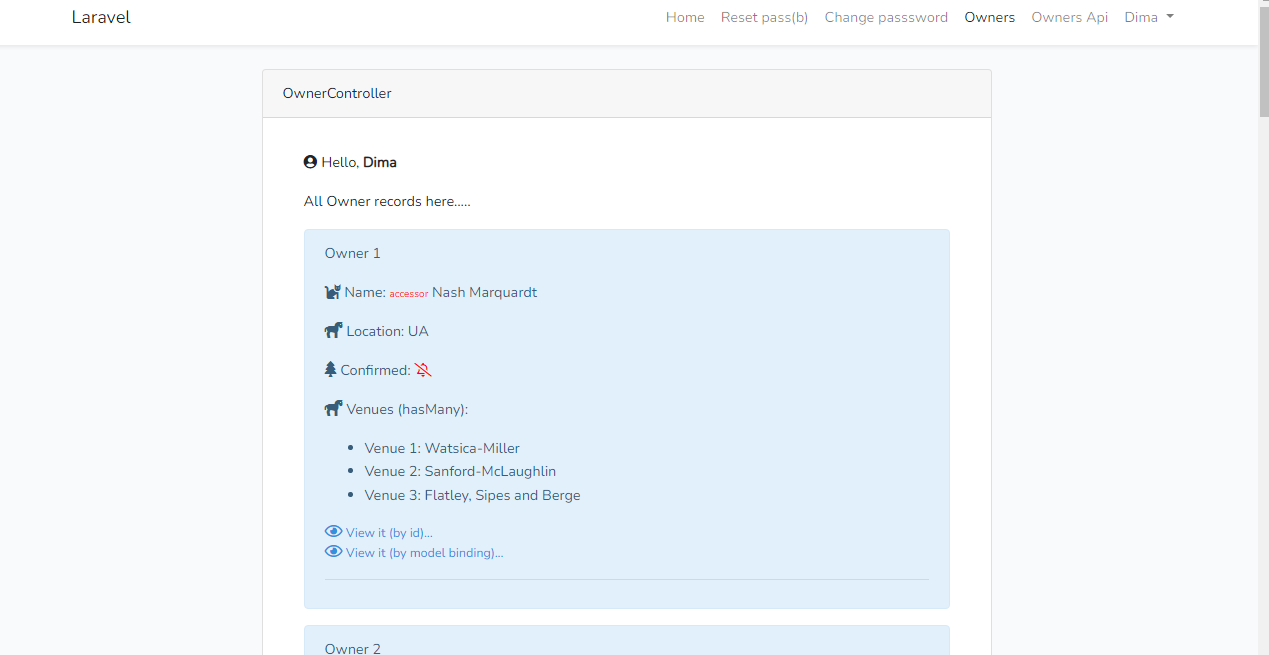
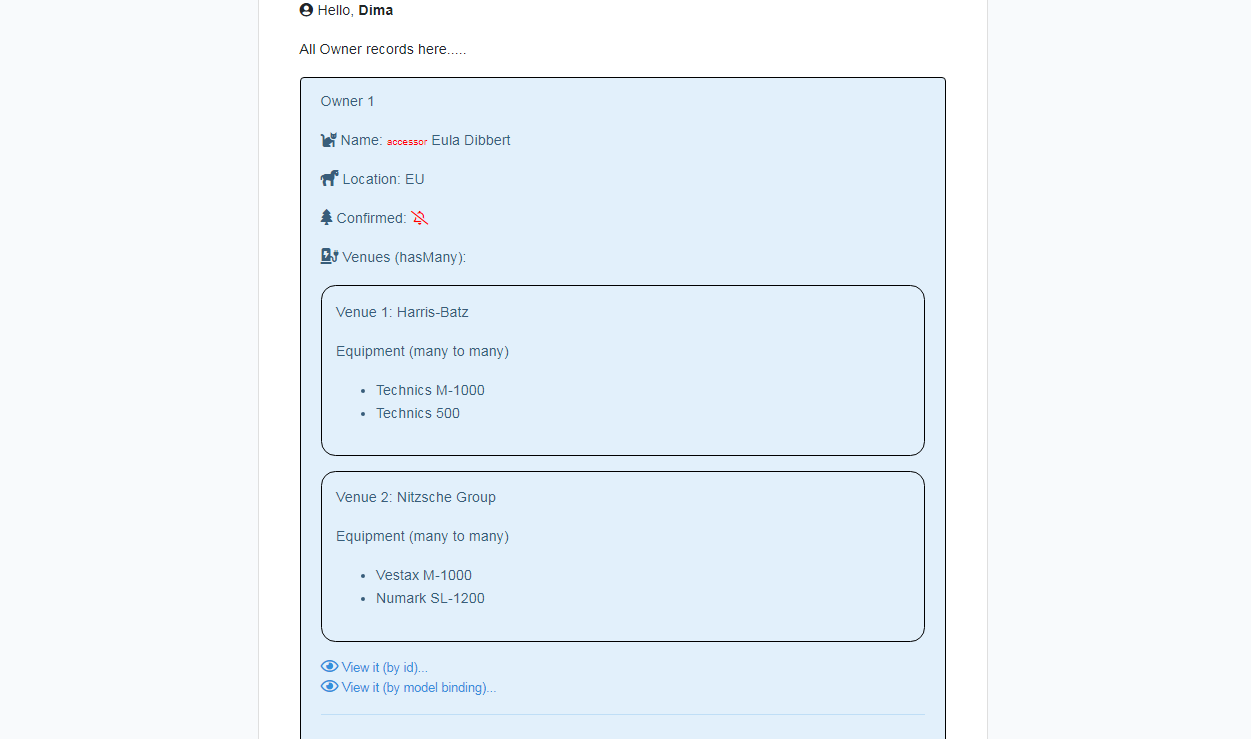
Table 'equipment', migrate, factory, seed, many to many relation

diff --git a/resources/views/owner/viewOne.blade.php b/resources/views/owner/viewOne.blade.php
@@ -21,23 +21,38 @@
 						
 						<p>One equipment records here.....</p>
 						 
-			            <p><i class='fas fa-cat'   style='font-size:16px'></i> Name:    {{ $owner->first_name  }}  {{ $owner->last_name  }}</p>
+			            <p><i class='fas fa-cat'   style='font-size:16px'></i> Name:    {!! $owner->first_name  !!}  {{ $owner->last_name  }}</p>
 						<p><i class='fas fa-horse' style='font-size:16px'></i> Location: {{ $owner->location}}  </p>
 						<p><i class='fas fa-tree' style='font-size:16px'></i>  Confirmed: {!! ($owner->confirmed) ? '<i class="far fa-check-circle" style="color:green"></i>' : '<i class="far fa-bell-slash" style="color:red"></i>' !!}  </p>	 
 						
 						{{-- Venues hasMany  --}}
-                         <p> <i class='fas fa-horse' style='font-size:16px'></i> Venues (hasMany): 
-                         @if( $owner->venues->isEmpty())
-                            <span class="text-danger"> No venue so far. </span>
-                         @else
-                            <ul>
-                            @foreach ($owner->venues as $venue)
-                                <li>Venue {{ $loop->iteration }}: {{ $venue->venue_name }}</li>
-                            @endforeach
-                            </ul>
-                        @endif
-                        </p>
-                        {{-- End Venues hasMany  --}}
+                            <p> <i class='fas fa-charging-station' style='font-size:16px'></i> Venues (hasMany): 
+                            @if( $owner->venues->isEmpty())
+                                <span class="text-danger"> No venue so far. </span>
+                            @else
+                                @foreach ($owner->venues as $venue)
+								    <div class="one" style="border: 1px solid black; padding: 1em; margin-bottom:1em; border-radius: 1em;">
+                                    <p>Venue {{ $loop->iteration }}: {{ $venue->venue_name }}</p>
+									
+									
+									{{-- Equipment Many to Many  --}}
+									@if( $venue->equipments->isEmpty())
+									    <span class="text-danger"> No equipment so far. </span>	
+									@else
+										<p>Equipment (many to many)</p>
+										<ul>
+										@foreach ($venue->equipments as $equipment)
+									        <li> {{ $equipment->trademark_name }} {{ $equipment->model_name }}</li>
+										@endforeach
+										</ul>
+									@endif
+									{{-- End Equipment Many to Many  --}}
+									
+									</div> <!-- end class one-->
+                                @endforeach
+                            @endif
+                            </p>
+                            {{-- End Venues hasMany  --}}
 						
 						<a href="{{route('/owners')}}"> <i class='fas fa-sign-in-alt'></i> Go back</a>
                     </div>

diff --git a/resources/views/owner/index.blade.php b/resources/views/owner/index.blade.php
@@ -24,22 +24,37 @@
 						@if ($owners->count())
                           
                             @foreach ($owners as $owner)
-							<div class="alert alert-info">
+							<div class="alert alert-info" style="border: 1px solid black;">
 			                <p> Owner {{ $loop->iteration }}  </p>  <!-- {{ $loop->iteration }} is Blade equivalentof $i++ -->
                             <p><i class='fas fa-cat'   style='font-size:16px'></i> Name:    {!! $owner->first_name  !!}  {{ $owner->last_name  }}</p>
 							<p><i class='fas fa-horse' style='font-size:16px'></i> Location: {{ $owner->location}}  </p>
 							<p><i class='fas fa-tree' style='font-size:16px'></i>  Confirmed: {!! ($owner->confirmed) ? '<i class="far fa-check-circle" style="color:green"></i>' : '<i class="far fa-bell-slash" style="color:red"></i>' !!}  </p>
 							
                             {{-- Venues hasMany  --}}
-                            <p> <i class='fas fa-horse' style='font-size:16px'></i> Venues (hasMany): 
+                            <p> <i class='fas fa-charging-station' style='font-size:16px'></i> Venues (hasMany): 
                             @if( $owner->venues->isEmpty())
                                 <span class="text-danger"> No venue so far. </span>
                             @else
-                                <ul>
                                 @foreach ($owner->venues as $venue)
-                                    <li>Venue {{ $loop->iteration }}: {{ $venue->venue_name }}</li>
+								    <div class="one" style="border: 1px solid black; padding: 1em; margin-bottom:1em; border-radius: 1em;">
+                                    <p>Venue {{ $loop->iteration }}: {{ $venue->venue_name }}</p>
+									
+									
+									{{-- Equipment Many to Many  --}}
+									@if( $venue->equipments->isEmpty())
+									    <span class="text-danger"> No equipment so far. </span>	
+									@else
+										<p>Equipment (many to many)</p>
+										<ul>
+										@foreach ($venue->equipments as $equipment)
+									        <li> {{ $equipment->trademark_name }} {{ $equipment->model_name }}</li>
+										@endforeach
+										</ul>
+									@endif
+									{{-- End Equipment Many to Many  --}}
+									
+									</div> <!-- end class one-->
                                 @endforeach
-                                </ul>
                             @endif
                             </p>
                             {{-- End Venues hasMany  --}}

diff --git a/database/seeds/Subfolder/OwnerSeeder.php b/database/seeds/Subfolder/OwnerSeeder.php
@@ -5,6 +5,7 @@ namespace Database\Seeds\Subfolder;
 use Illuminate\Database\Seeder;
 use App\Models\Owner;
 use App\Models\Venue;
+use App\Models\Equipment;
 use Illuminate\Support\Facades\DB;
 
 class OwnerSeeder extends Seeder
@@ -20,6 +21,7 @@ class OwnerSeeder extends Seeder
 		DB::statement('SET FOREIGN_KEY_CHECKS=0');       //way to set auto increment back to 1 before seeding a table (instead of ->delete())
         DB::table('owners')->truncate(); //way to set auto increment back to 1 before seeding a table
 		DB::table('venues')->truncate(); //way to set auto increment back to 1 before seeding a table
+		DB::table('equipments')->truncate(); //way to set auto increment back to 1 before seeding a table
 		
         // $this->call(UsersTableSeeder::class);
 		///Owner::factory()->count(5)->create(); //Factory trait has been introduced in Laravel v8.
@@ -38,8 +40,21 @@ class OwnerSeeder extends Seeder
             ) */
             //->has(factory(\App\Models\Venue::class, 1)) //not supported in Laravel 6??
 		    ->create()->each(function ($owner){
-			    //create hasMany relation (Venues) ->has() is not supported in L6
-			    factory(\App\Models\Venue::class, 2)->create(['owner_id' => $owner->id ]);	
+				
+			    //create hasMany relation (Venues to Owners) ->has() is not supported in L6
+			    factory(\App\Models\Venue::class, 2)->create(['owner_id' => $owner->id ])->each(function ($venue){
+					
+					
+					//$venue->owner()->associate(1); //not working so far
+					
+					//create Many to Many relation (pivot)(Equipments to Venues) 
+                    $equipments = factory(\App\Models\Equipment::class, 2)->create();
+					//$venue->equipments()->saveMany($equipments);
+					$venue->equipments()->sync($equipments->pluck('id')); //Eloquent:relationship
+					
+					
+				});
+				
 			});
     }
 }

diff --git a/database/migrations/2024_09_25_142943_create_equipment_venue_table.php b/database/migrations/2024_09_25_142943_create_equipment_venue_table.php
@@ -1,0 +1,40 @@
+<?php
+//Pivot table (Many to Many relations)
+use Illuminate\Database\Migrations\Migration;
+use Illuminate\Database\Schema\Blueprint;
+use Illuminate\Support\Facades\Schema;
+
+class CreateEquipmentVenueTable extends Migration
+{
+    /**
+     * Run the migrations.
+     *
+     * @return void
+     */
+    public function up()
+    {
+        Schema::create('equipment_venue', function (Blueprint $table) {
+            //$table->bigIncrements('id');
+            
+			$table->unsignedBigInteger('equipment_id')->nullable()->index(); // this is working
+			$table->unsignedBigInteger('venue_id')->nullable(); // this is working
+			
+			$table->primary(['equipment_id', 'venue_id']);
+			
+            $table->foreign('equipment_id')->references('id')->on('equipments')->onDelete('cascade');
+            $table->foreign('venue_id')->references('id')->on('venues')->onDelete('cascade');
+			
+			$table->timestamps();
+        });
+    }
+
+    /**
+     * Reverse the migrations.
+     *
+     * @return void
+     */
+    public function down()
+    {
+        Schema::dropIfExists('equipment_venue');
+    }
+}

diff --git a/app/Models/Equipment.php b/app/Models/Equipment.php
@@ -1,0 +1,40 @@
+<?php
+
+namespace App\Models;
+
+use Illuminate\Database\Eloquent\Model;
+use Illuminate\Database\Eloquent\SoftDeletes;
+use Illuminate\Database\Eloquent\Builder; //for scope
+//use Illuminate\Database\Eloquent\Factories\HasFactory; //Factory traithas been introduced in Laravel v8.
+use Illuminate\Database\Eloquent\Relations\BelongsToMany;
+
+
+class Equipment extends Model
+{
+	//use HasFactory; ////Factory trait has been introduced in Laravel v8.
+	use SoftDeletes;
+	
+	 protected $table ='equipments';
+	 /**
+     * The attributes that are mass assignable.
+     *
+     * @var array<int, string>
+     */
+    protected $fillable = [
+    ];
+	
+	 /**
+     * @var array<string, string>
+     */
+    protected $dispatchesEvents = [
+    ];
+	
+	/**
+     * BelongsToMany: get venues that have equipment
+     */
+    public function venues(): BelongsToMany
+    {
+        return $this->belongsToMany(Venue::class);
+    }
+
+}

diff --git a/database/factories/EquipmentFactory.php b/database/factories/EquipmentFactory.php
@@ -1,0 +1,21 @@
+<?php
+//Factory trait has been introduced in Laravel v8 so can not use it 
+namespace Database\Factories;
+
+/** @var \Illuminate\Database\Eloquent\Factory $factory */
+
+use App\Model;
+use App\Models\Equipment;
+use Faker\Generator as Faker;
+//use Illuminate\Database\Eloquent\Factories\Factory; Factory trait has been introduced in Laravel v8 so can not use it 
+
+$factory->define(\App\Models\Equipment::class, function (Faker $faker) { 
+    return [
+        //
+		'trademark_name' => $faker->randomElement(['Pioneer', 'Vestax', 'Technics', 'Numark']), //$faker->company, //Str::random(10),
+		'model_name'     => $faker->randomElement(['SL-1200', '500', 'G-120', 'M-1000']), //$faker->name,    //$faker->lastName,
+		'description'    => $faker->sentence(3),
+		//'owner_id'   => Owner::inRandomOrder()->first()->id //Owner::factory()  //assign BelongsTo
+
+    ];
+});

diff --git a/app/Http/Api/V1/Resources/Venues/VenueResource.php b/app/Http/Api/V1/Resources/Venues/VenueResource.php
@@ -5,6 +5,7 @@ namespace App\Http\Api\V1\Resources\Venues;
 //use Illuminate\Http\Resources\Json\ResourceCollection;
 use App\Models\Venue;
 use Illuminate\Http\Resources\Json\JsonResource;
+use App\Http\Api\V1\Resources\Equipments\EquipmentResource;
 
 class VenueResource extends JsonResource
 {
@@ -20,9 +21,10 @@ class VenueResource extends JsonResource
 		return [
             'id'            => $this->id,
             'venue_name'    => $this->venue_name,
-			'address'     => $this->address,
-            'active'     => $this->active,
-			'status' => 'success',
+			'address'       => $this->address,
+            'active'        => $this->active,
+			'equipment'     => EquipmentResource::collection($this->equipments), //many to Many relation
+			'status'        => 'success',
 	    ];
     }
 }

diff --git a/database/migrations/2024_09_25_142325_create_equipment_table.php b/database/migrations/2024_09_25_142325_create_equipment_table.php
@@ -1,0 +1,35 @@
+<?php
+
+use Illuminate\Database\Migrations\Migration;
+use Illuminate\Database\Schema\Blueprint;
+use Illuminate\Support\Facades\Schema;
+
+class CreateEquipmentTable extends Migration
+{
+    /**
+     * Run the migrations.
+     *
+     * @return void
+     */
+    public function up()
+    {
+        Schema::create('equipments', function (Blueprint $table) {
+            $table->bigIncrements('id');
+			$table->string('trademark_name');
+            $table->string('model_name');
+			$table->string('description');
+            $table->timestamps();
+			$table->softDeletes();
+        });
+    }
+
+    /**
+     * Reverse the migrations.
+     *
+     * @return void
+     */
+    public function down()
+    {
+        Schema::dropIfExists('equipments');
+    }
+}

diff --git a/app/Http/Api/V1/Resources/Equipments/EquipmentResource.php b/app/Http/Api/V1/Resources/Equipments/EquipmentResource.php
@@ -1,0 +1,27 @@
+<?php
+
+namespace App\Http\Api\V1\Resources\Equipments;
+
+//use Illuminate\Http\Resources\Json\ResourceCollection;
+use App\Models\Equipment;
+use Illuminate\Http\Resources\Json\JsonResource;
+
+class EquipmentResource extends JsonResource
+{
+    /**
+     * Transform the resource collection into an array.
+     *
+     * @param  \Illuminate\Http\Request  $request
+     * @return array
+     */
+    public function toArray($request)
+    {
+        //return parent::toArray($request);  //working, will return all fields
+		return [
+            'id'              => $this->id,
+            'trademark_name'  => $this->trademark_name,
+			'model_name'      => $this->model_name,
+            //'description'     => $this->description,
+	    ];
+    }
+}

diff --git a/app/Models/Venue.php b/app/Models/Venue.php
@@ -6,6 +6,9 @@ use Illuminate\Database\Eloquent\Model;
 use Illuminate\Database\Eloquent\SoftDeletes;
 use Illuminate\Database\Eloquent\Builder; //for scope
 //use Illuminate\Database\Eloquent\Factories\HasFactory; //Factory traithas been introduced in Laravel v8.
+use Illuminate\Database\Eloquent\Relations\BelongsToMany;
+use Illuminate\Database\Eloquent\Relations\BelongsTo;
+
 
 class Venue extends Model
 {
@@ -50,4 +53,11 @@ class Venue extends Model
         return $this->belongsTo(Owner::class);
     }
 
+	/**
+     * BelongsToMany: get equipments that have venues
+     */
+    public function equipments(): BelongsToMany
+    {
+        return $this->belongsToMany(Equipment::class);
+    }
 }

diff --git a/app/Http/Api/V1/Resources/Owners/OwnerResource.php b/app/Http/Api/V1/Resources/Owners/OwnerResource.php
@@ -23,7 +23,7 @@ class OwnerResource extends JsonResource
             'first_name'    => $this->first_name,
 			'last_name'     => $this->last_name,
             'confirmed'     => $this->confirmed,
-            'venues'        => VenueResource::collection($this->venues), //hasMany relation
+            'venues'        => VenueResource::collection($this->venues), //hasMany relation (includes Many to Many relation 'equipments' inside)
 			'status' => 'success',
 	    ];
     }

diff --git a/database/seeds/Subfolder/VenueSeeder.php b/database/seeds/Subfolder/VenueSeeder.php
@@ -1,5 +1,5 @@
 <?php
-//not used (goen to ->each in  \Database\Seeds\SubfolderOwnerSeeder)!!!!
+//not used (went to ->each in  \Database\Seeds\SubfolderOwnerSeeder)!!!!
 namespace Database\Seeds\Subfolder;
 
 use Illuminate\Database\Seeder;
